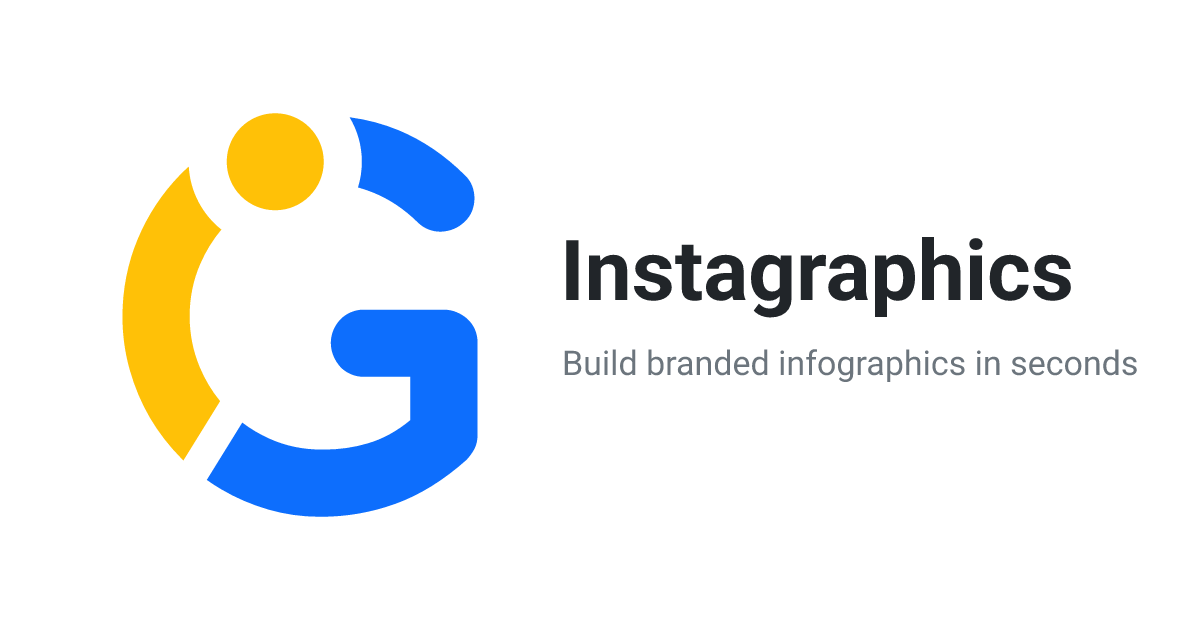
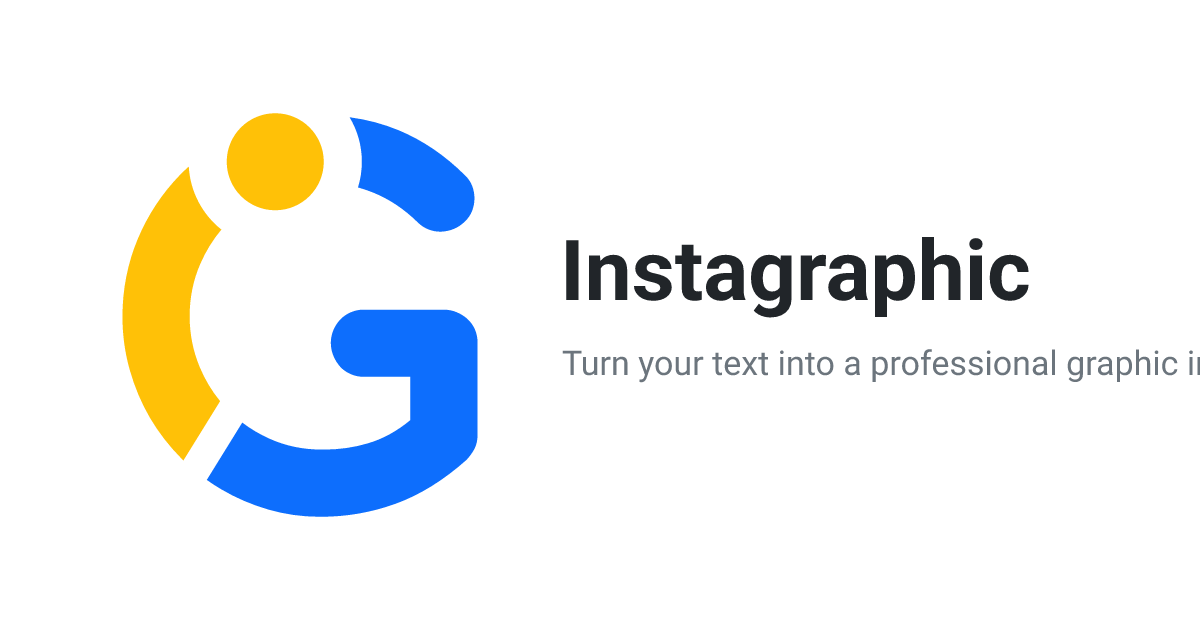
Rebrand to singular Instagraphic; base URL www.instagraphic.app; regenerate OG image

Changed region(s): [[0.4625, 0.5429, 1.0, 0.6032], [0.8633, 0.3921, 0.8942, 0.4825]]

diff --git a/src/app/layout.tsx b/src/app/layout.tsx
@@ -5,22 +5,22 @@ import { Analytics } from "@vercel/analytics/next";
 import Navbar from "@/components/Navbar";
 
 const SITE_URL =
-  process.env.NEXT_PUBLIC_BASE_URL || "https://instagraphics.vercel.app";
+  process.env.NEXT_PUBLIC_BASE_URL || "https://www.instagraphic.app";
 const DESCRIPTION =
   "Build branded infographics in seconds. Pick a layout, apply your colors and fonts, type your content, and download as SVG or PNG.";
 
 export const metadata: Metadata = {
   metadataBase: new URL(SITE_URL),
   title: {
-    default: "Instagraphics",
-    template: "%s | Instagraphics",
+    default: "Instagraphic",
+    template: "%s | Instagraphic",
   },
   description: DESCRIPTION,
   openGraph: {
-    title: "Instagraphics",
+    title: "Instagraphic",
     description: DESCRIPTION,
     url: "/",
-    siteName: "Instagraphics",
+    siteName: "Instagraphic",
     type: "website",
     locale: "en_US",
     images: [
@@ -28,13 +28,13 @@ export const metadata: Metadata = {
         url: "/og.png",
         width: 1200,
         height: 630,
-        alt: "Instagraphics - build branded infographics in seconds",
+        alt: "Instagraphic - build branded infographics in seconds",
       },
     ],
   },
   twitter: {
     card: "summary_large_image",
-    title: "Instagraphics",
+    title: "Instagraphic",
     description: DESCRIPTION,
     images: ["/og.png"],
   },

diff --git a/src/lib/mailer.ts b/src/lib/mailer.ts
@@ -20,7 +20,7 @@ export async function sendOtpEmail(email: string, code: string) {
   await transporter.sendMail({
     from: process.env.SMTP_FROM || process.env.SMTP_USER,
     to: email,
-    subject: `${code} is your Instagraphics sign-in code`,
-    text: `Your Instagraphics sign-in code is ${code}. It expires in 10 minutes.\n\nIf you did not request this, ignore this email.`,
+    subject: `${code} is your Instagraphic sign-in code`,
+    text: `Your Instagraphic sign-in code is ${code}. It expires in 10 minutes.\n\nIf you did not request this, ignore this email.`,
   });
 }

diff --git a/src/components/Navbar.tsx b/src/components/Navbar.tsx
@@ -10,7 +10,7 @@ export default async function Navbar() {
         <Link className="navbar-brand fw-bold text-primary d-flex align-items-center gap-2" href="/">
           {/* eslint-disable-next-line @next/next/no-img-element -- app icon asset */}
           <img src="/icon.svg" width={28} height={28} alt="" />
-          Instagraphics
+          Instagraphic
         </Link>
         <ul className="navbar-nav me-auto">
           {user && (

diff --git a/src/app/api/checkout/route.ts b/src/app/api/checkout/route.ts
@@ -33,7 +33,7 @@ export async function POST(req: NextRequest) {
           currency: "usd",
           unit_amount: CREDIT_PRICE_CENTS,
           product_data: {
-            name: "Instagraphics Credit",
+            name: "Instagraphic Credit",
             description: "1 credit unlocks one infographic for unlimited downloads",
           },
         },
